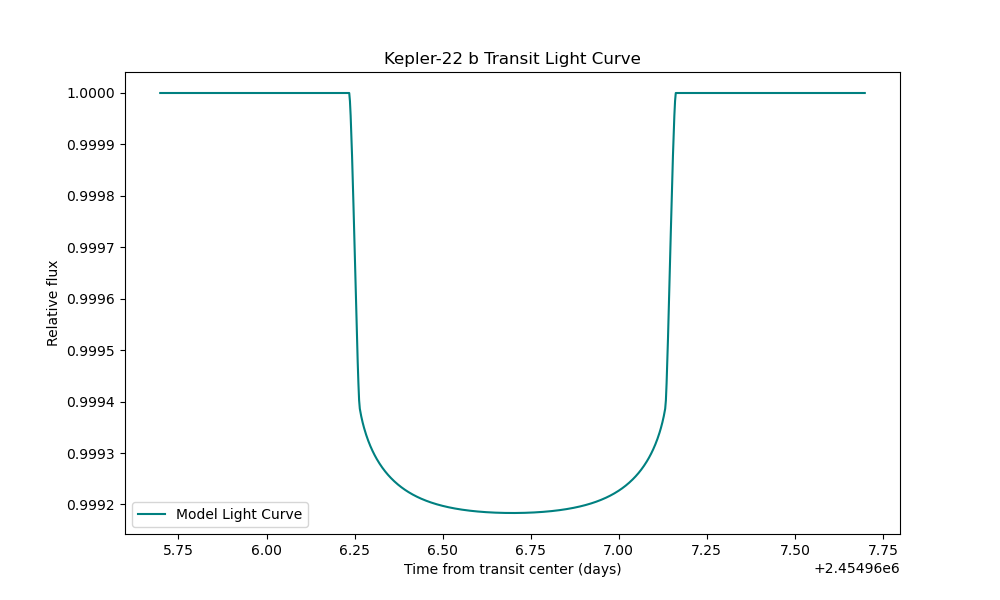
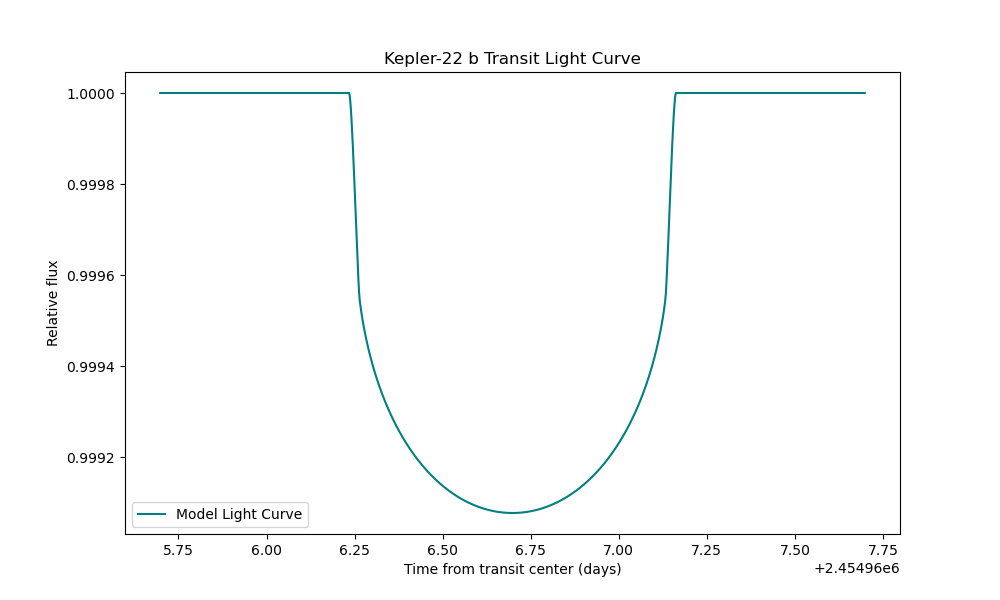
coorrect the light curve with right limb darkening coeff

diff --git a/src/daneel/detection/transit.py b/src/daneel/detection/transit.py
@@ -13,7 +13,7 @@ params.inc = 89.76                    # orbital inclination (in degrees)
 params.ecc = 0                        # eccentricity
 params.w = 90                         # longitude of periastron (in degrees)
 params.limb_dark = "quadratic"        # limb darkening model
-params.u = [0.1, 0.3]                 # limb darkening coefficients
+params.u = [0.630, 0.076]                 # limb darkening coefficients
 
 m = batman.TransitModel(params, time)    #initializes model
 flux = m.light_curve(params)           # calculates light curve
